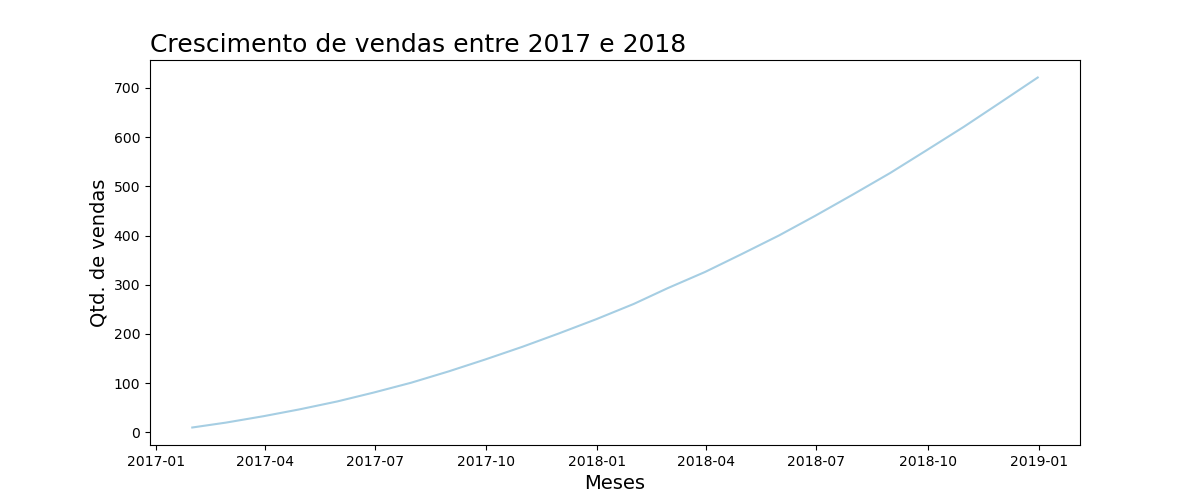
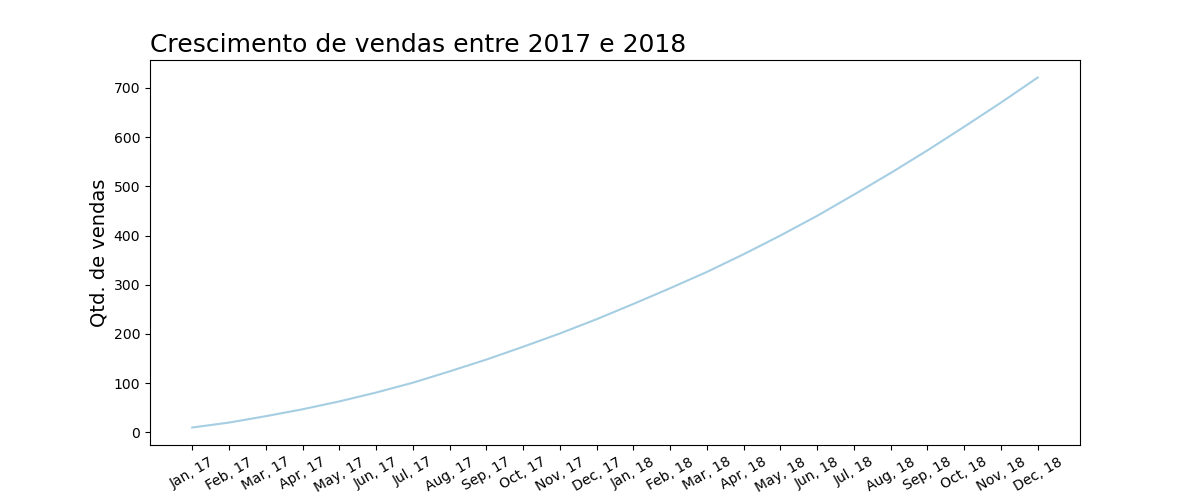
grafico variacao das vendas e ajuste de data para "Mes, ano"

diff --git a/vendas.py b/vendas.py
@@ -1,22 +1,45 @@
 import pandas as pd
 import matplotlib.pyplot as plt
+from matplotlib.dates import RRuleLocator
 import seaborn as sns
 
 df_alucar = pd.read_csv('dados_vendas/alucar.csv') # 24 linhas, 2 colunas
 
 df_alucar_nulos = df_alucar.isna().sum() # Não há dados nulos
 
-df_alucar['mes'] = pd.to_datetime(df_alucar['mes'])
+
+# Formatação da data para 'Mês, ano'
+serie_data = pd.Series(df_alucar['mes'])
+serie_data = pd.to_datetime(serie_data)
+
+data_formatada = serie_data.dt.strftime('%b, %y')
+
+df_alucar['mes'] = data_formatada
 
 
-# Analises visuais
-sns.set_palette('Paired')
-vendas = sns.lineplot(data=df_alucar, x='mes', y='vendas')
-vendas.figure.set_size_inches(12, 5)
-vendas.set_title('Crescimento de vendas entre 2017 e 2018', loc='left', fontsize=18)
-vendas.set_xlabel('Meses', fontsize=14)
-vendas.set_ylabel('Qtd. de vendas', fontsize=14)
-vendas = vendas.get_figure()
-vendas.savefig('graficos_vendas/vendas.png')
+# Análise visual das vendas
+# sns.set_palette('Paired')
+# vendas = sns.lineplot(data=df_alucar, x='mes', y='vendas')
 
-print(df_alucar)
+# vendas.figure.set_size_inches(12, 5)
+# vendas.set_title('Crescimento de vendas entre 2017 e 2018', loc='left', fontsize=18)
+# vendas.set_xlabel('Meses', fontsize=14)
+# vendas.set_xticklabels(df_alucar['mes'], rotation=30)
+# vendas.set_ylabel('Qtd. de vendas', fontsize=14)
+
+# vendas = vendas.get_figure()
+# vendas.savefig('graficos_vendas/vendas.png')
+
+
+# Análise visual da variacao das vendas nos meses
+df_alucar['variacao_vendas'] = df_alucar['vendas'].pct_change()
+variacao_vendas = sns.lineplot(data=df_alucar, x='mes', y='variacao_vendas')
+
+variacao_vendas.figure.set_size_inches(12, 5)
+variacao_vendas.set_title('Queda no crescimento de vendas entre 2017 e 2018', loc='left', fontsize=18)
+variacao_vendas.set_xlabel('Meses', fontsize=14)
+variacao_vendas.set_xticklabels(df_alucar['mes'], rotation=30)
+variacao_vendas.set_ylabel('Var. vendas', fontsize=14)
+
+variacao_vendas = variacao_vendas.get_figure()
+variacao_vendas.savefig('graficos_vendas/variacao_vendas.png')
